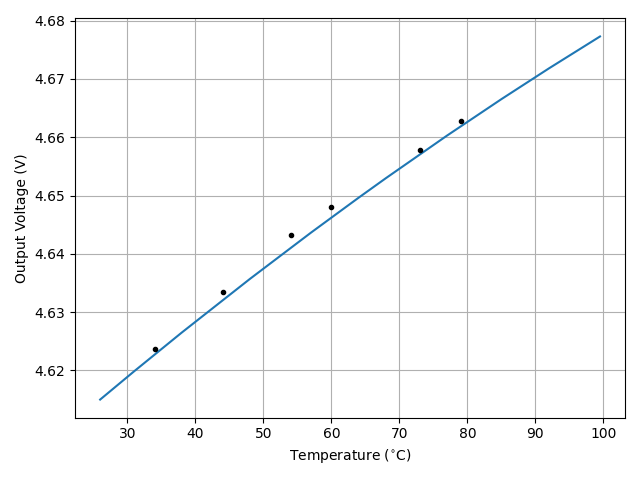
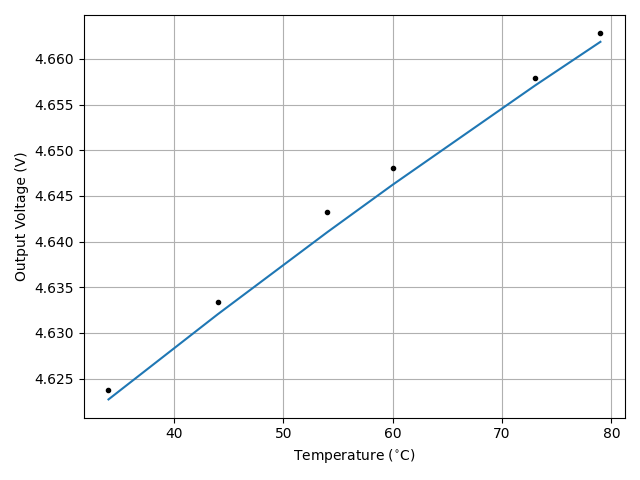
hardware assignment replaced with right one

diff --git a/hardwareAssignment/leastSqVenv/lsq.py b/hardwareAssignment/leastSqVenv/lsq.py
@@ -32,7 +32,7 @@ B = np.loadtxt('hardwaretest.txt')
 Xv = np.hstack((np.ones((B.shape[0],1)),B[:,[1]],B[:,[1]]**2))
 Cv = B[:,[0]]
 Tv = B[:,[1]]
-plt.plot(T, X@n_lsq)
+plt.plot(Tv, Xv@n_lsq)
 plt.plot(Tv, Cv, 'k.')
 plt.ylabel('Output Voltage (V)')
 plt.xlabel('Temperature ($^{\circ}$C)')
